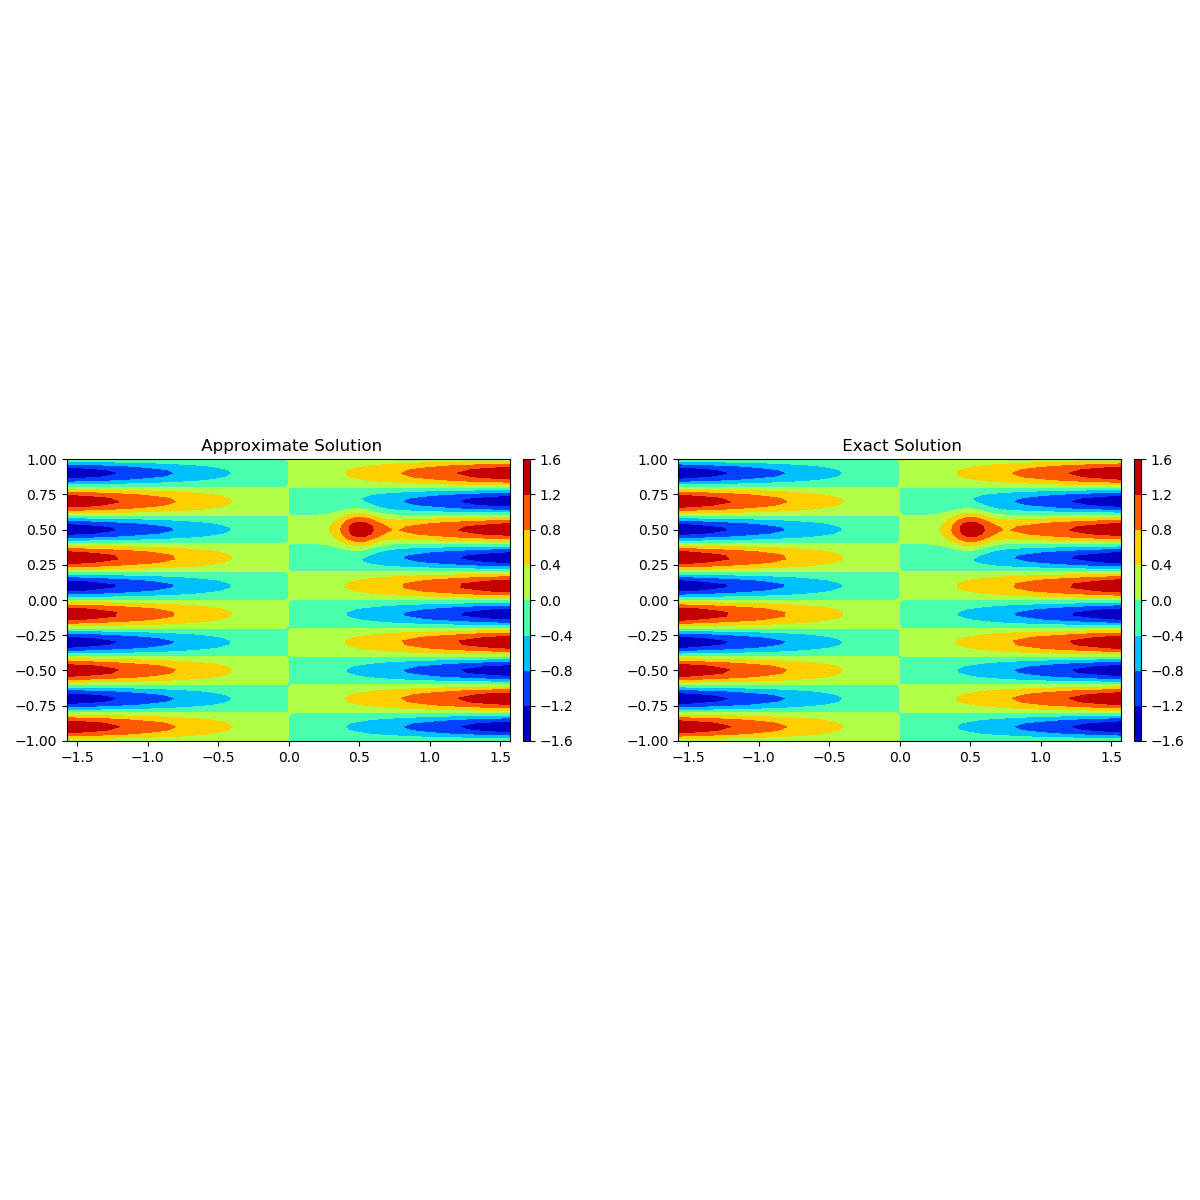
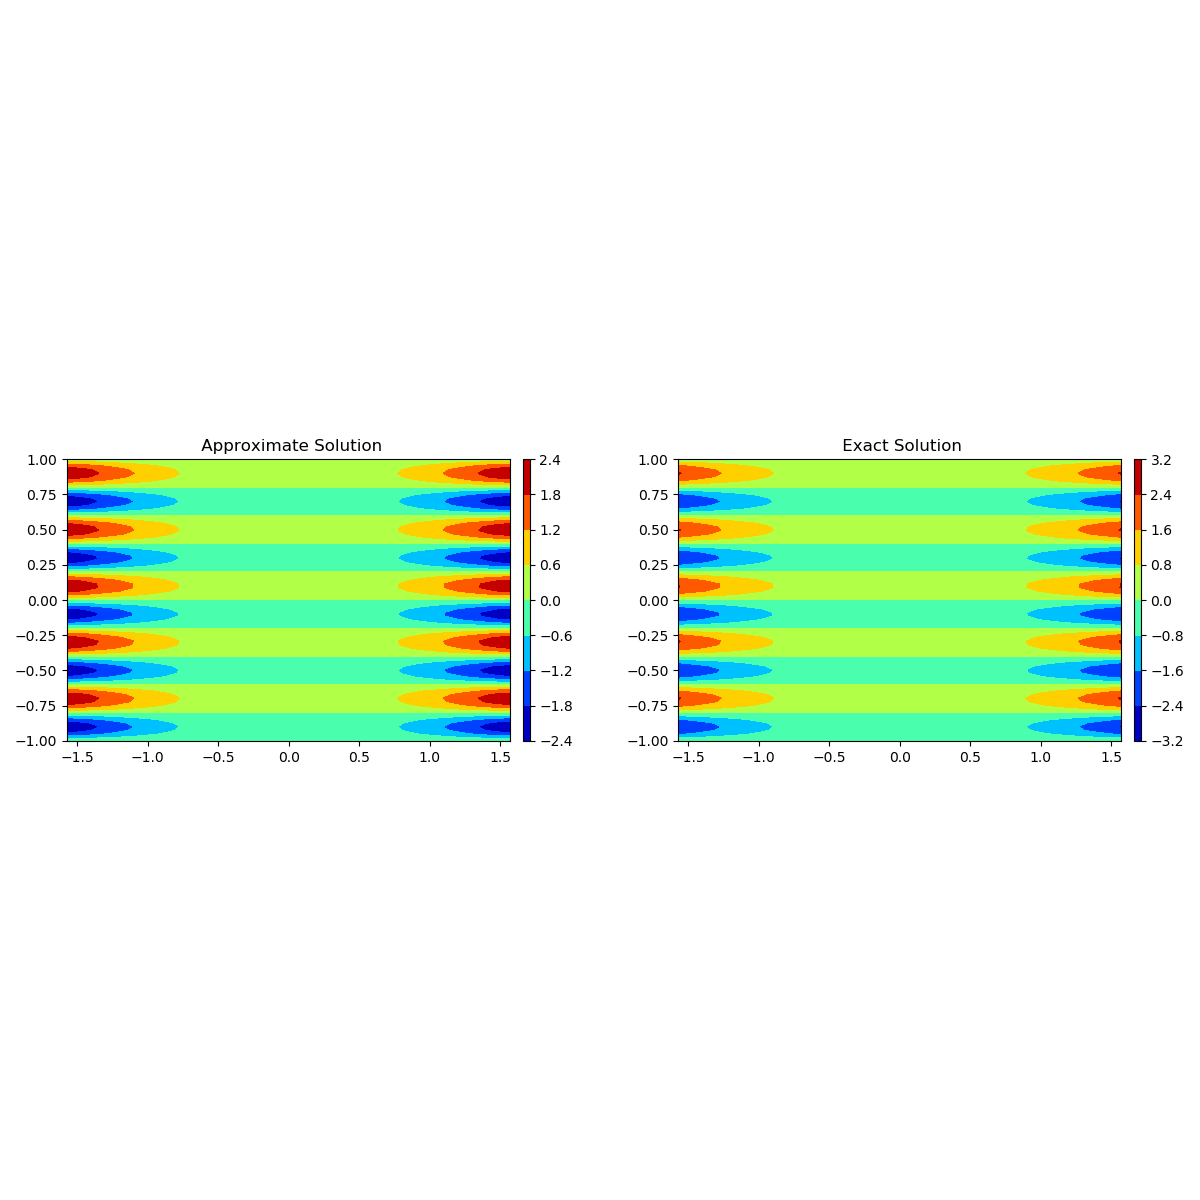
Add files via upload

Changed region(s): [[0.555, 0.37, 0.9558, 0.6167], [0.0308, 0.37, 0.2467, 0.6167], [0.2775, 0.37, 0.4008, 0.6167]]

diff --git a/pyccel_form/Poisson_2D.py b/pyccel_form/Poisson_2D.py
@@ -4,8 +4,7 @@ from simplines import SplineSpace
 from simplines import TensorSpace
 from simplines import StencilMatrix
 from simplines import StencilVector
-from simplines import sol_field_2d
-from simplines import plot_field_2d
+from simplines import pyccel_sol_field_2d
 
 #.. Prologation by knots insertion matrix
 from simplines import prolongation_matrix
@@ -98,6 +97,7 @@ def poisson_solve(V1, V2 , V, u_p, xuh):
        x                = zeros(V.nbasis)
        x[:,1:-1]        = xk[:,:]
        x[:,:]          += xuh[:,:]
+       
        u.from_array(V, x)
 
        Norm    = assemble_norm_l2(V, fields=[u])
@@ -107,16 +107,16 @@ def poisson_solve(V1, V2 , V, u_p, xuh):
        
        return u, x, l2_norm, H1_norm
 
-degree     = 4
+degree     = 3
 nelements  = 64
 
 #---------------------------------------
 from numpy import sin, exp, pi, linspace
-u_exact = lambda x, y : x*sin(5.*pi*y) + 1.0*exp(-((x-0.5)**2 + (y-0.5)**2)/0.02)
+u_exact = lambda x, y : x**2*sin(5.*pi*y) #+ 1.0*exp(-((x-0.5)**2 + (y-0.5)**2)/0.02)
 
 #fx0 = lambda x : u_exact(-pi,x) #if x<0.25+100.*t else 1.
 #fx1 = lambda x : u_exact(pi,x)
-fy0 = lambda x : u_exact(x,-1.) #if x<0.25+100.*t else 1.
+fy0 = lambda x : u_exact(x,0.) #if x<0.25+100.*t else 1.
 fy1 = lambda x : u_exact(x,1.)
 
 #-------------------------------------------
@@ -131,7 +131,7 @@ V2        = SplineSpace(degree=degree, nelements= nelements, grid = grids, nderi
 Vh = TensorSpace(V1, V2)
 
 # compute the interpolate B-spline function for the Dirichlet boundary condition using least square method
-from approximation_bspline import least_square_Bspline
+from simplines import least_square_Bspline
 
 # ... Dirichlet boundary condition 
 x0uh                         = zeros(Vh.nbasis)
@@ -147,7 +147,7 @@ u_ph, xuh, l2_norm, H1_norm = poisson_solve(V1, V2, Vh, u_p, x0uh)
 print('l2_norm = {} H1_norm = {} '.format(l2_norm, H1_norm) ) 
 nbpts    = 80
 
-u_poisson, u_xpoisson, u_ypoisson, X, Y = sol_field_2d((nbpts,nbpts),  xuh , Vh.knots, Vh.degree)
+u_poisson, u_xpoisson, u_ypoisson, X, Y = pyccel_sol_field_2d((nbpts,nbpts),  xuh , Vh.knots, Vh.degree)
 
 #print(np.max(u_xpoisson), np.min(u_xpoisson) ) 
 

diff --git a/pyccel_form/gallery_section_00.py b/pyccel_form/gallery_section_00.py
@@ -123,7 +123,7 @@ def assemble_vector_ex01(ne1, ne2, p1, p2, spans_1, spans_2,  basis_1, basis_2, 
                     y                       = points_2[ie2, g2]
                     #f                = 0. 
                     # ...
-                    f                = 25*pi**2*x*sin(5*pi*y) - 10000.0*(0.5 - x)**2*exp(-50.0*(x - 0.5)**2 - 50.0*(y - 0.5)**2) - 10000.0*(0.5 - y)**2*exp(-50.0*(x - 0.5)**2 - 50.0*(y - 0.5)**2) + 200.0*exp(-50.0*(x - 0.5)**2 - 50.0*(y - 0.5)**2)
+                    f                = -2.*sin(5*pi*y)+25*pi**2*x**2*sin(5*pi*y) #- 10000.0*(0.5 - x)**2*exp(-50.0*(x - 0.5)**2 - 50.0*(y - 0.5)**2) - 10000.0*(0.5 - y)**2*exp(-50.0*(x - 0.5)**2 - 50.0*(y - 0.5)**2) + 200.0*exp(-50.0*(x - 0.5)**2 - 50.0*(y - 0.5)**2)
 
                     lvalues_u[g1,g2] = f
                     
@@ -212,9 +212,9 @@ def assemble_norm_ex01(ne1, ne2, p1, p2, spans_1, spans_2,  basis_1, basis_2,  w
                     y    = points_2[ie2, g2]
  
                     # ...
-                    u  = x*sin(5.0*pi*y) + 1.0*exp(-((x-0.5)**2 + (y-0.5)**2)/0.02)
-                    ux = 1.0*(50.0 - 100.0*x)*exp(-50.0*(x - 0.5)**2 - 50.0*(y - 0.5)**2) + sin(5*pi*y)
-                    uy = 5*pi*x*cos(5*pi*y) + 1.0*(50.0 - 100.0*y)*exp(-50.0*(x - 0.5)**2 - 50.0*(y - 0.5)**2)
+                    u  = x**2*sin(5.0*pi*y) #+ 1.0*exp(-((x-0.5)**2 + (y-0.5)**2)/0.02)
+                    ux = 2.*x* sin(5*pi*y) #+1.0*(50.0 - 100.0*x)*exp(-50.0*(x - 0.5)**2 - 50.0*(y - 0.5)**2) 
+                    uy = 5*pi*x**2*cos(5*pi*y) #+ 1.0*(50.0 - 100.0*y)*exp(-50.0*(x - 0.5)**2 - 50.0*(y - 0.5)**2)
                     # ...
                     uh  = lvalues_u[g1,g2]
                     uhx = lvalues_ux[g1,g2]
